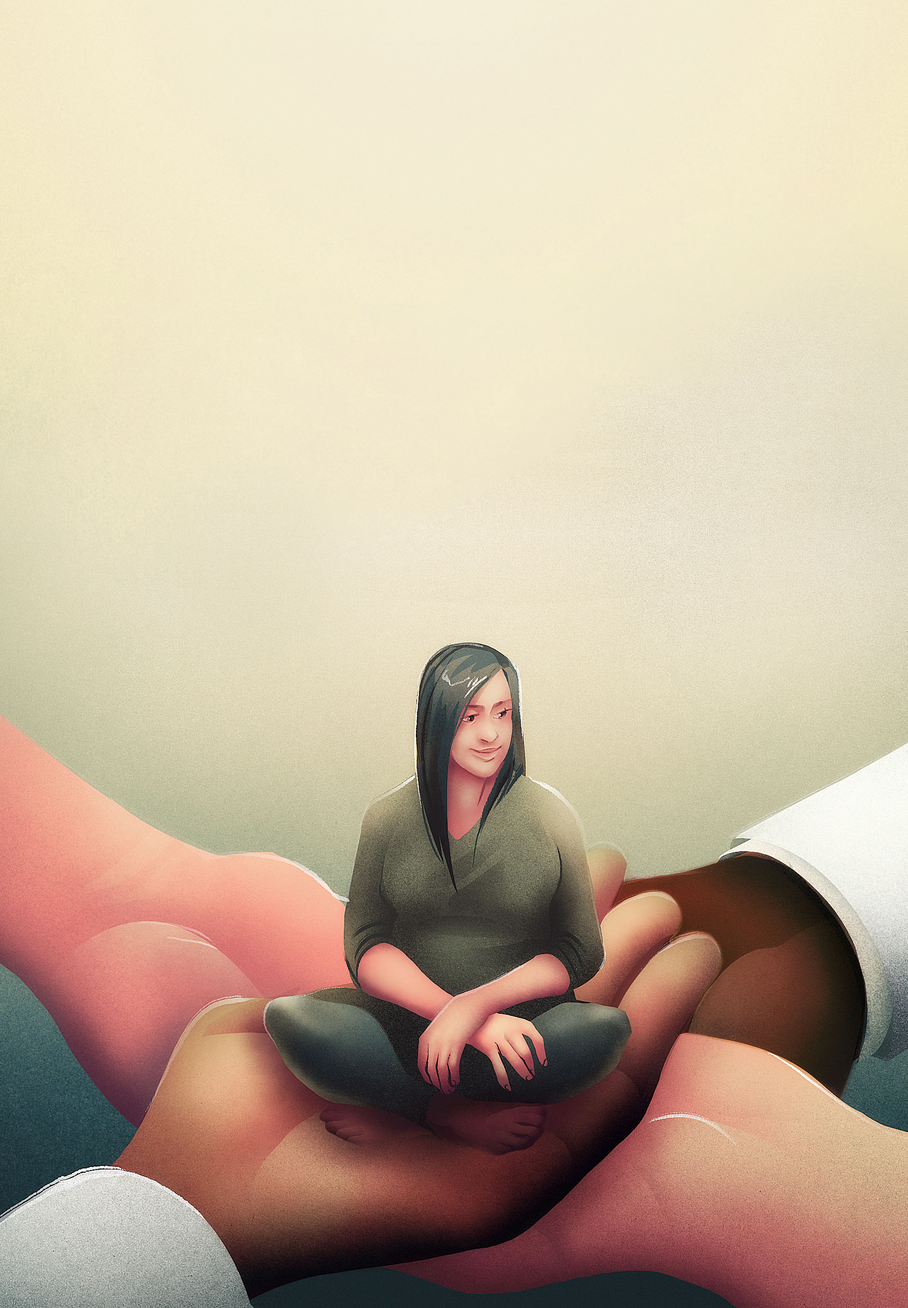
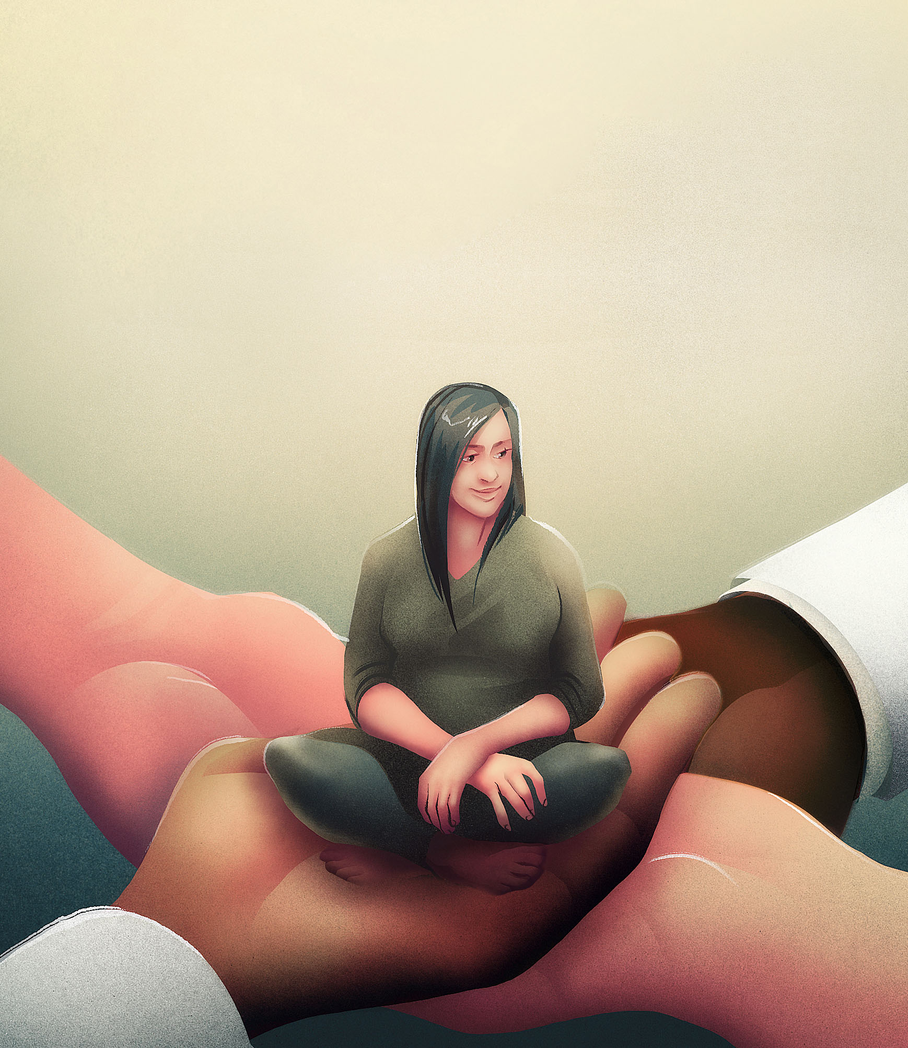
home hero

diff --git a/src/pages/take-action.js b/src/pages/take-action.js
@@ -11,9 +11,7 @@ const Mission = () => (
     </div>
 
     <div className="max-width content-padding pad-vertical header-padding">
-      <div className="header-container header-container--mission">
-        <h1 className="text--center mobile-squish-md">We live in a closed healthcare system</h1>
-        <p className="text--center mobile-squish-md">We demand that our healthcare services be open.</p>
+      <div className="header-container header-container--action">
       </div>
     </div>
 
@@ -85,29 +83,29 @@ const Mission = () => (
 
         <div class="button-container"><Link to="" className="button">Download PDF</Link></div>
       </div>
-    </div>
 
-    <div className="community">
-      <div className="max-width content-padding pad-vertical">
-        <h2 className="header-xl">Be a part to grow the open source healthcare community</h2>
+      <div className="community">
+        <div className="max-width content-padding pad-vertical">
+          <h2 className="header-xl">Be a part to grow the open source healthcare community</h2>
 
-        <div className="community-role">
-          <h3>as an Organization</h3>
-          <p>what you can do</p>
-        </div>
-        <div className="community-role">
-          <h3>as an Engineer</h3>
-          <p>what you can do</p>
-        </div>
-        <div className="community-role">
-          <h3>as an Concerned Citizen</h3>
-          <p>what you can do</p>
-        </div>
+          <div className="community-role">
+            <h3>as an Organization</h3>
+            <p>what you can do</p>
+          </div>
+          <div className="community-role">
+            <h3>as an Engineer</h3>
+            <p>what you can do</p>
+          </div>
+          <div className="community-role">
+            <h3>as an Concerned Citizen</h3>
+            <p>what you can do</p>
+          </div>
 
-        <div class="button-container"><Link to="/contact/" className="button">Get in touch</Link></div>
+          <div class="button-container"><Link to="/contact/" className="button">Get in touch</Link></div>
+        </div>
       </div>
-    </div>
 
+    </div>
   </Layout>
 )
 

diff --git a/src/styles/_header.scss b/src/styles/_header.scss
@@ -121,7 +121,7 @@
 .header-container {
   &--home {
     h2 {
-      margin-top: 25vh;
+      margin-top: 16vh;
     }
     @include mq($from: large) {
       display: flex;
@@ -140,11 +140,14 @@
       }
     }
   }
-  &--mission, &--action {
+  &--mission {
     padding-top: 170px;
     padding-bottom: 150px;
     color: $color-white;
     background: radial-gradient(ellipse at center, rgba(0,0,0,.5) 0%,rgba(0,0,0,0) 70%);
+  }
+  &--action {
+    height: 400px;
   }
 }
 
@@ -161,23 +164,25 @@
     max-height: 680px;
     .hero-image {
       z-index: -2;
-      max-height: 500px;
       width: auto;
-      @include mq($from: medium) {
-        margin-top: -20%;
-      }
-      @include mq($from: large) {
-        margin-top: -50%;
-      }
+
     }
     &--fixed {
       position: fixed;
     }
     &--mission {
       background-color: #000330;
+      @include mq($from: large) {
+        margin-top: -50%;
+      }
     }
     &--home {
       background-color: $color-white;
+      .hero-image {
+        @include mq($from: large) {
+          margin-top: -20%;
+        }
+      }
     }
   }
 }

diff --git a/src/pages/index.js b/src/pages/index.js
@@ -9,7 +9,8 @@ import spotlightItems from '../data/article-spotlight-order'
 const IndexPage = () => (
   <Layout>
     <div className="hero-container">
-      <div className="hero hero--fixed hero--home"><Hero hero="open-source-home.jpg" /></div>
+      <div className="hero hero--fixed hero--home hidden--sm"><Hero hero="open-source-home.png" /></div>
+      <div className="hero hero--fixed hero--home hidden--md"><Hero hero="open-source-home-mobile.jpg" /></div>
     </div>
 
     <div className="max-width content-padding pad-vertical header-padding">

diff --git a/src/styles/_layout.scss b/src/styles/_layout.scss
@@ -133,12 +133,17 @@ footer {
     }
   }
   &--md {
-    @include mq($until: large) {
+    @include mq($from: medium) {
       display: none !important;
     }
   }
   &--lg {
     @include mq($from: large) {
+      display: none !important;
+    }
+  }
+	&--until-md {
+    @include mq($until: large) {
       display: none !important;
     }
   }

diff --git a/src/styles/_evidence.scss b/src/styles/_evidence.scss
@@ -17,7 +17,7 @@
   display: block;
   padding: 30px 0;
   border-bottom: solid 2px $color-gray--border;
-  background-image: url("../images/oshc-journal-home.png");
+  background-image: url("../images/open-source-home-mobile.jpg");
   background-position: center;
   background-size: cover;
   background-repeat: no-repeat;
